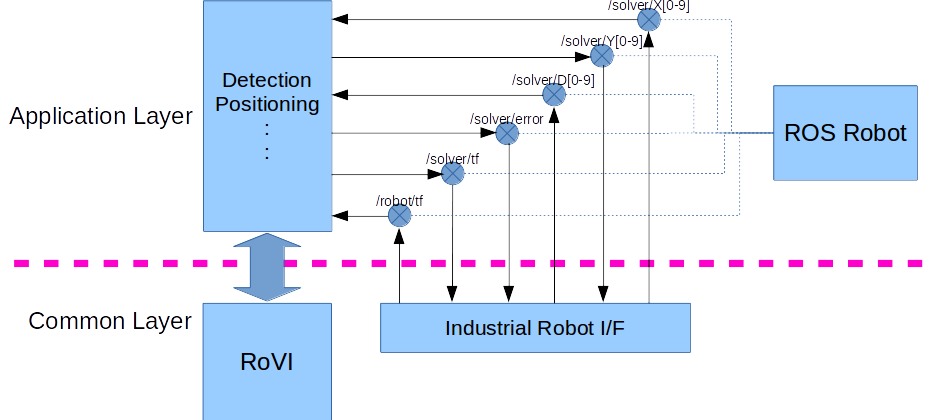
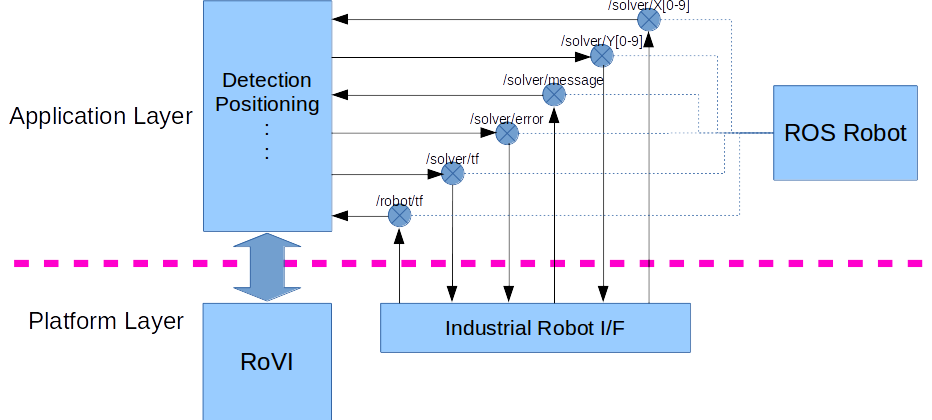
190304

Changed region(s): [[0.0311, 0.7429, 0.2178, 0.8048], [0.529, 0.1548, 0.6534, 0.2167]]

diff --git a/AppDesign.md b/AppDesign.md
@@ -11,11 +11,10 @@
 |/solver/X0|std_msgs/Bool|Clear captured data|
 |/solver/X1|std_msgs/Bool|Capture|
 |/solver/X2|std_msgs/Bool|Solve|
-|/solver/X3|std_msgs/Bool||
-|/solver/Y0|std_msgs/Bool|Response for /solver/X0|
-|/solver/Y1|std_msgs/Bool|Response for /solver/X1|
-|/solver/Y2|std_msgs/Bool|Response for /solver/X2|
-|/solver/Y2|std_msgs/Bool||
+|/solver/X3|std_msgs/Bool|Load...|
+|/solver/X4|std_msgs/Bool|Save...|
+|/solver/Y[0-9]|std_msgs/Bool|Response for /solver/X[0-9]|
+|/solver/message|std_msgs/String|Message|
 |/solver/error|std_msgs/String|Error code and message|
 |/solver/tf|geometry_msgs/Transform|Rigid transform solved|
 |/robot/tf|geometry_msgs/Transform|Current transform of robot(base=0,tool=0)|
